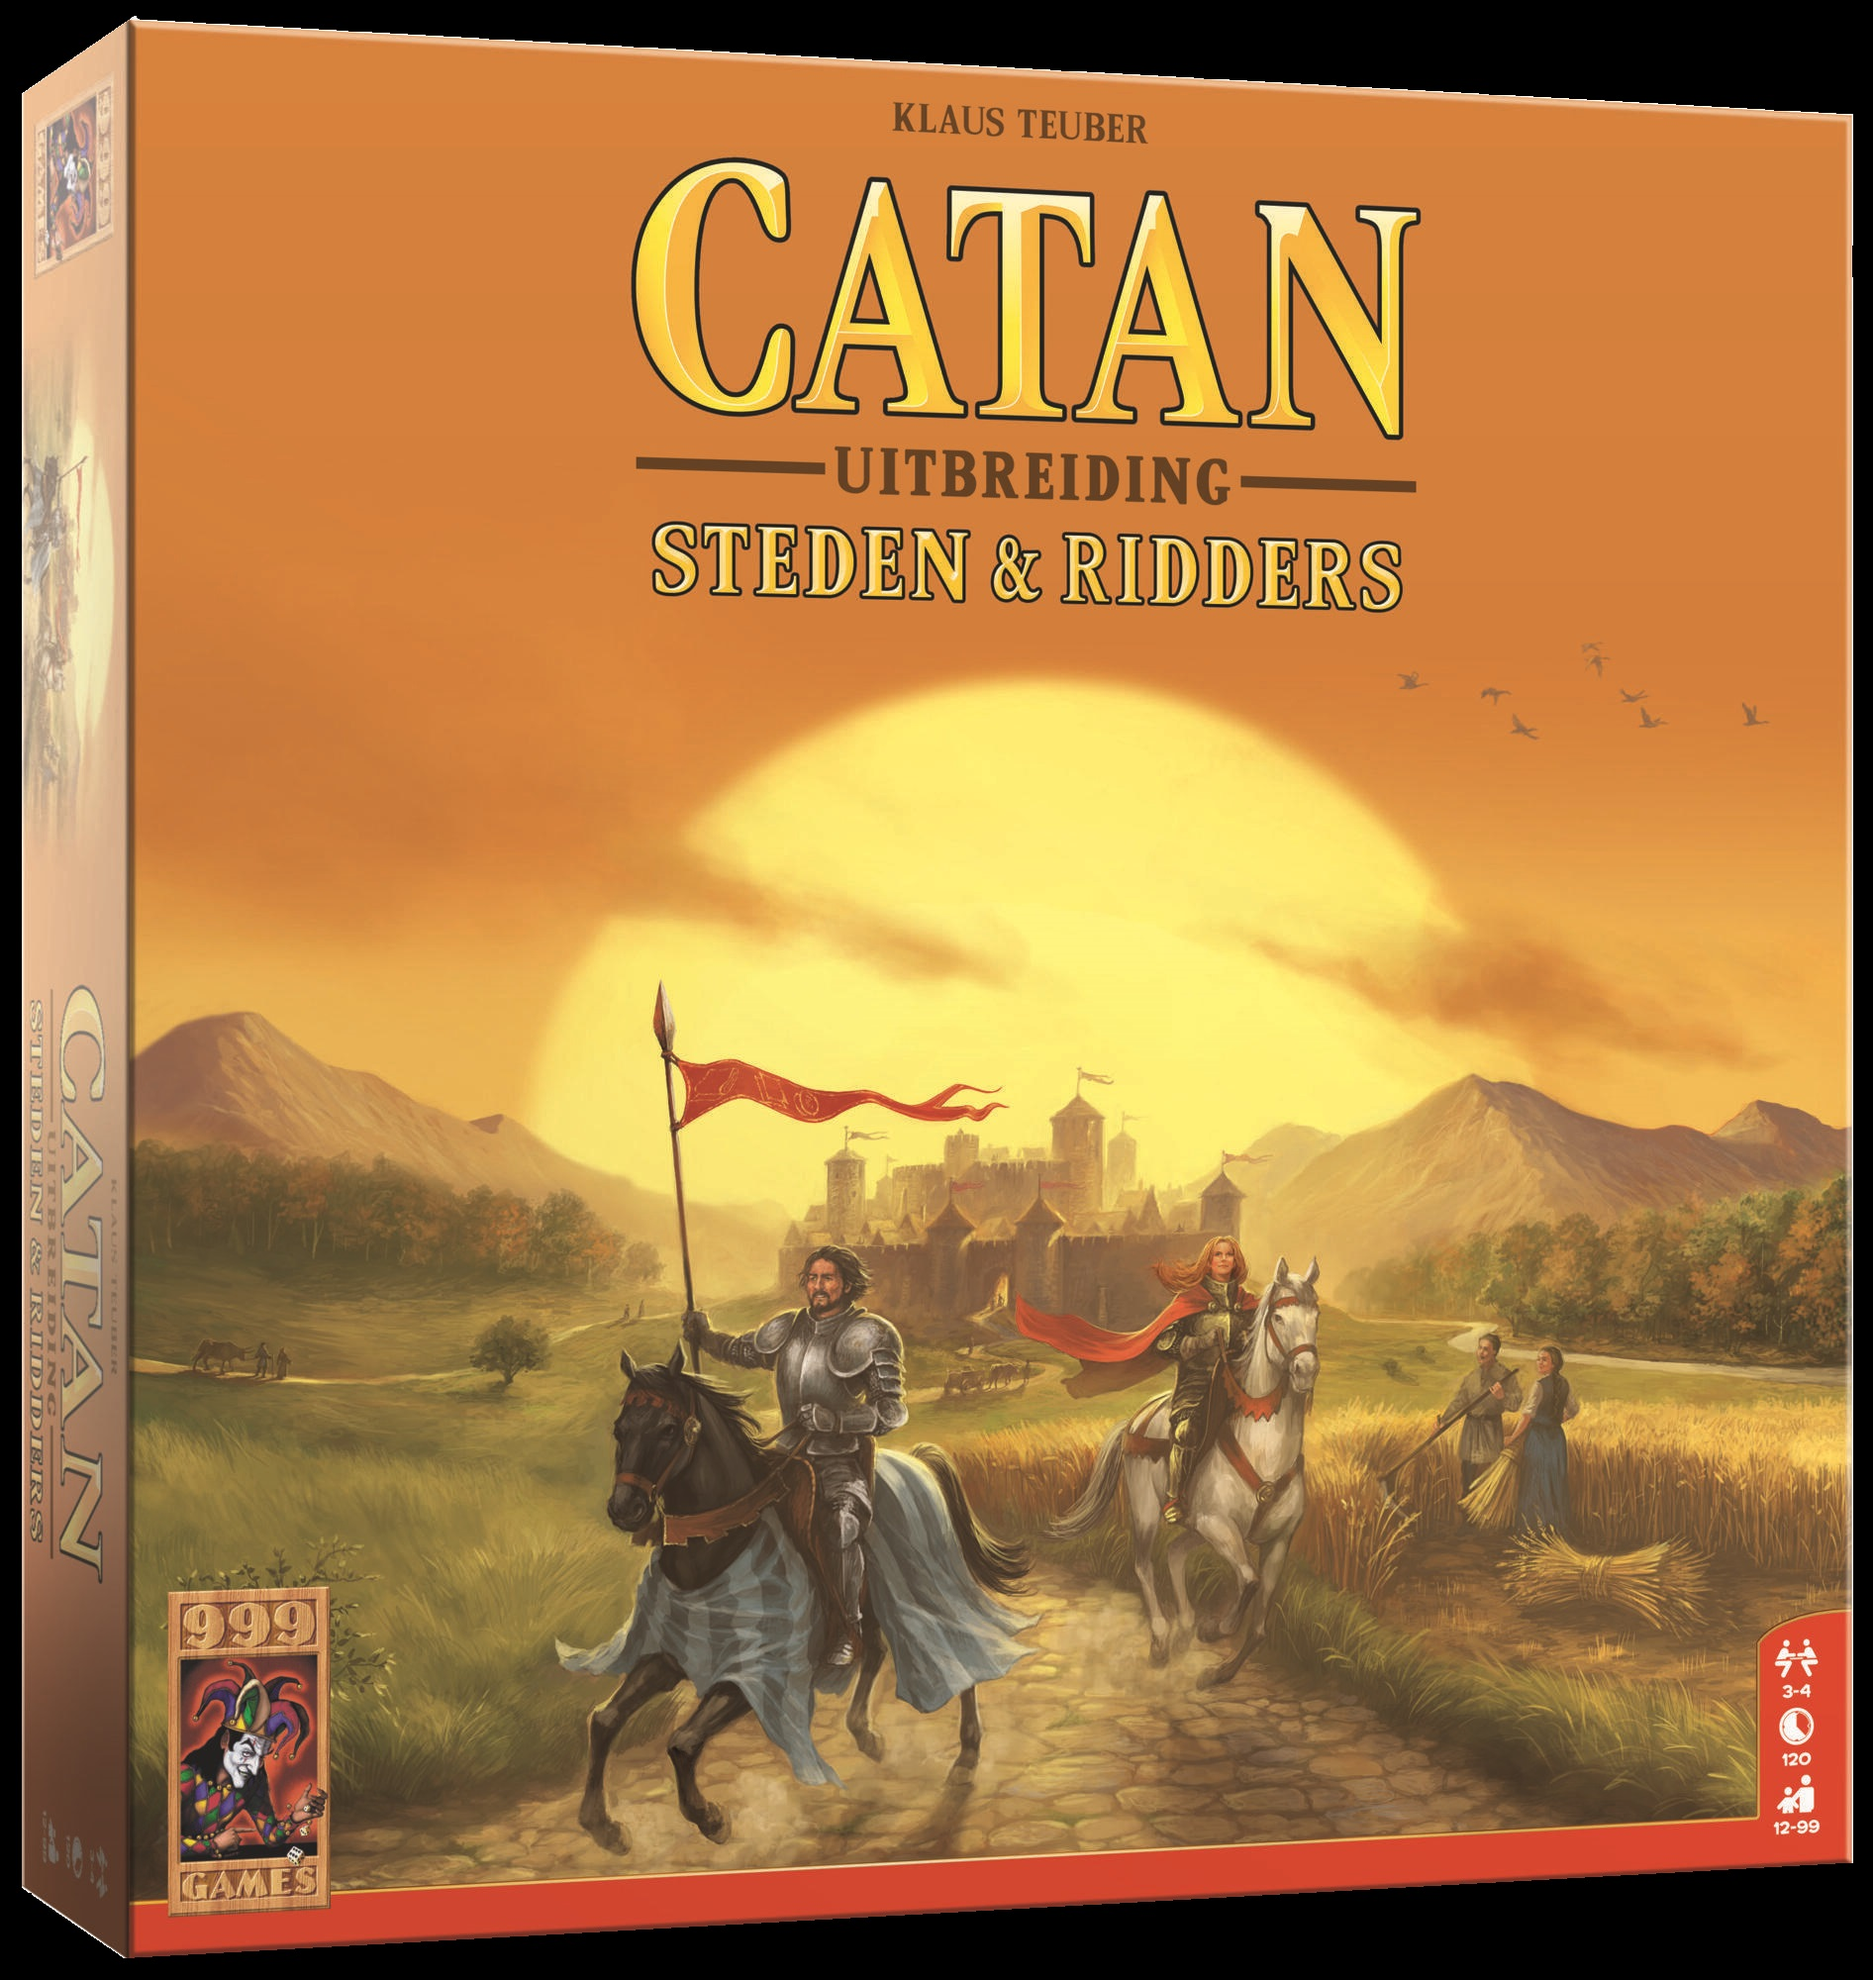
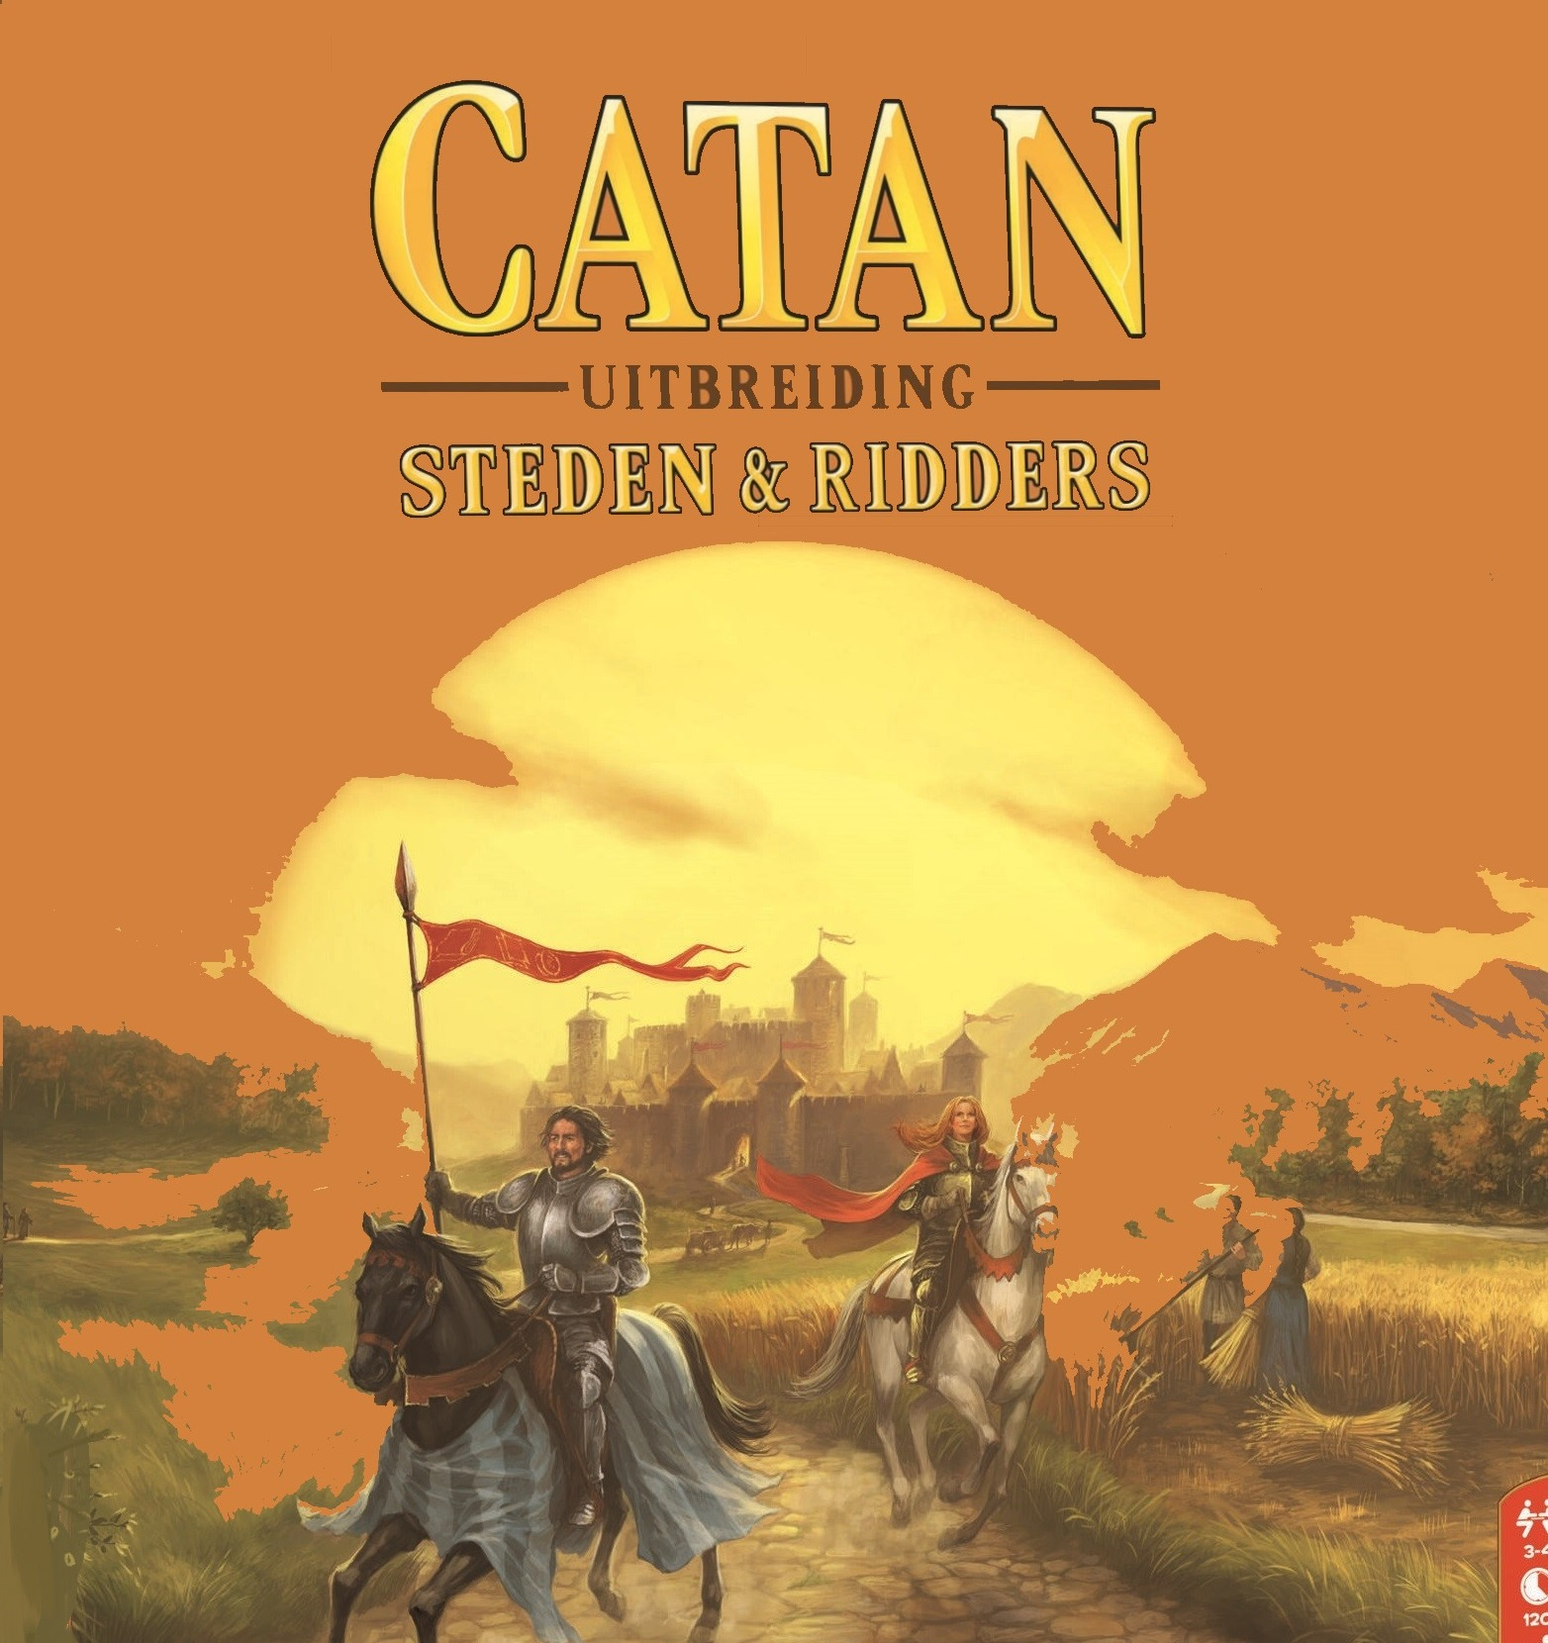
Add Catan: Steden en Ridders to the game library

diff --git a/src/features/games/covers.ts b/src/features/games/covers.ts
@@ -9,6 +9,7 @@ import { gameKeyForTemplate } from '@/features/games/presets';
  */
 export const GAME_COVERS: Record<string, ImageSourcePropType> = {
   catan: require('../../../assets/game_covers/catan_cover.png'),
+  catan_cities_and_knights: require('../../../assets/game_covers/catancitiesandnights_cover.jpg'),
   heat: require('../../../assets/game_covers/heat_cover.jpg'),
   arschmallows: require('../../../assets/game_covers/arschmallows_cover.png'),
   dalmuti: require('../../../assets/game_covers/dalmuti_cover.jpg'),

diff --git a/src/features/games/presets.ts b/src/features/games/presets.ts
@@ -18,6 +18,7 @@ export interface GameLibraryEntry {
  */
 export const GAME_LIBRARY: GameLibraryEntry[] = [
   { id: 'catan', name: 'Catan' },
+  { id: 'catan_cities_and_knights', name: 'Catan: Steden en Ridders' },
   { id: 'heat', name: 'Heat' },
   { id: 'arschmallows', name: 'Arschmallows' },
   { id: 'dalmuti', name: 'De Grote Dalmuti' },
